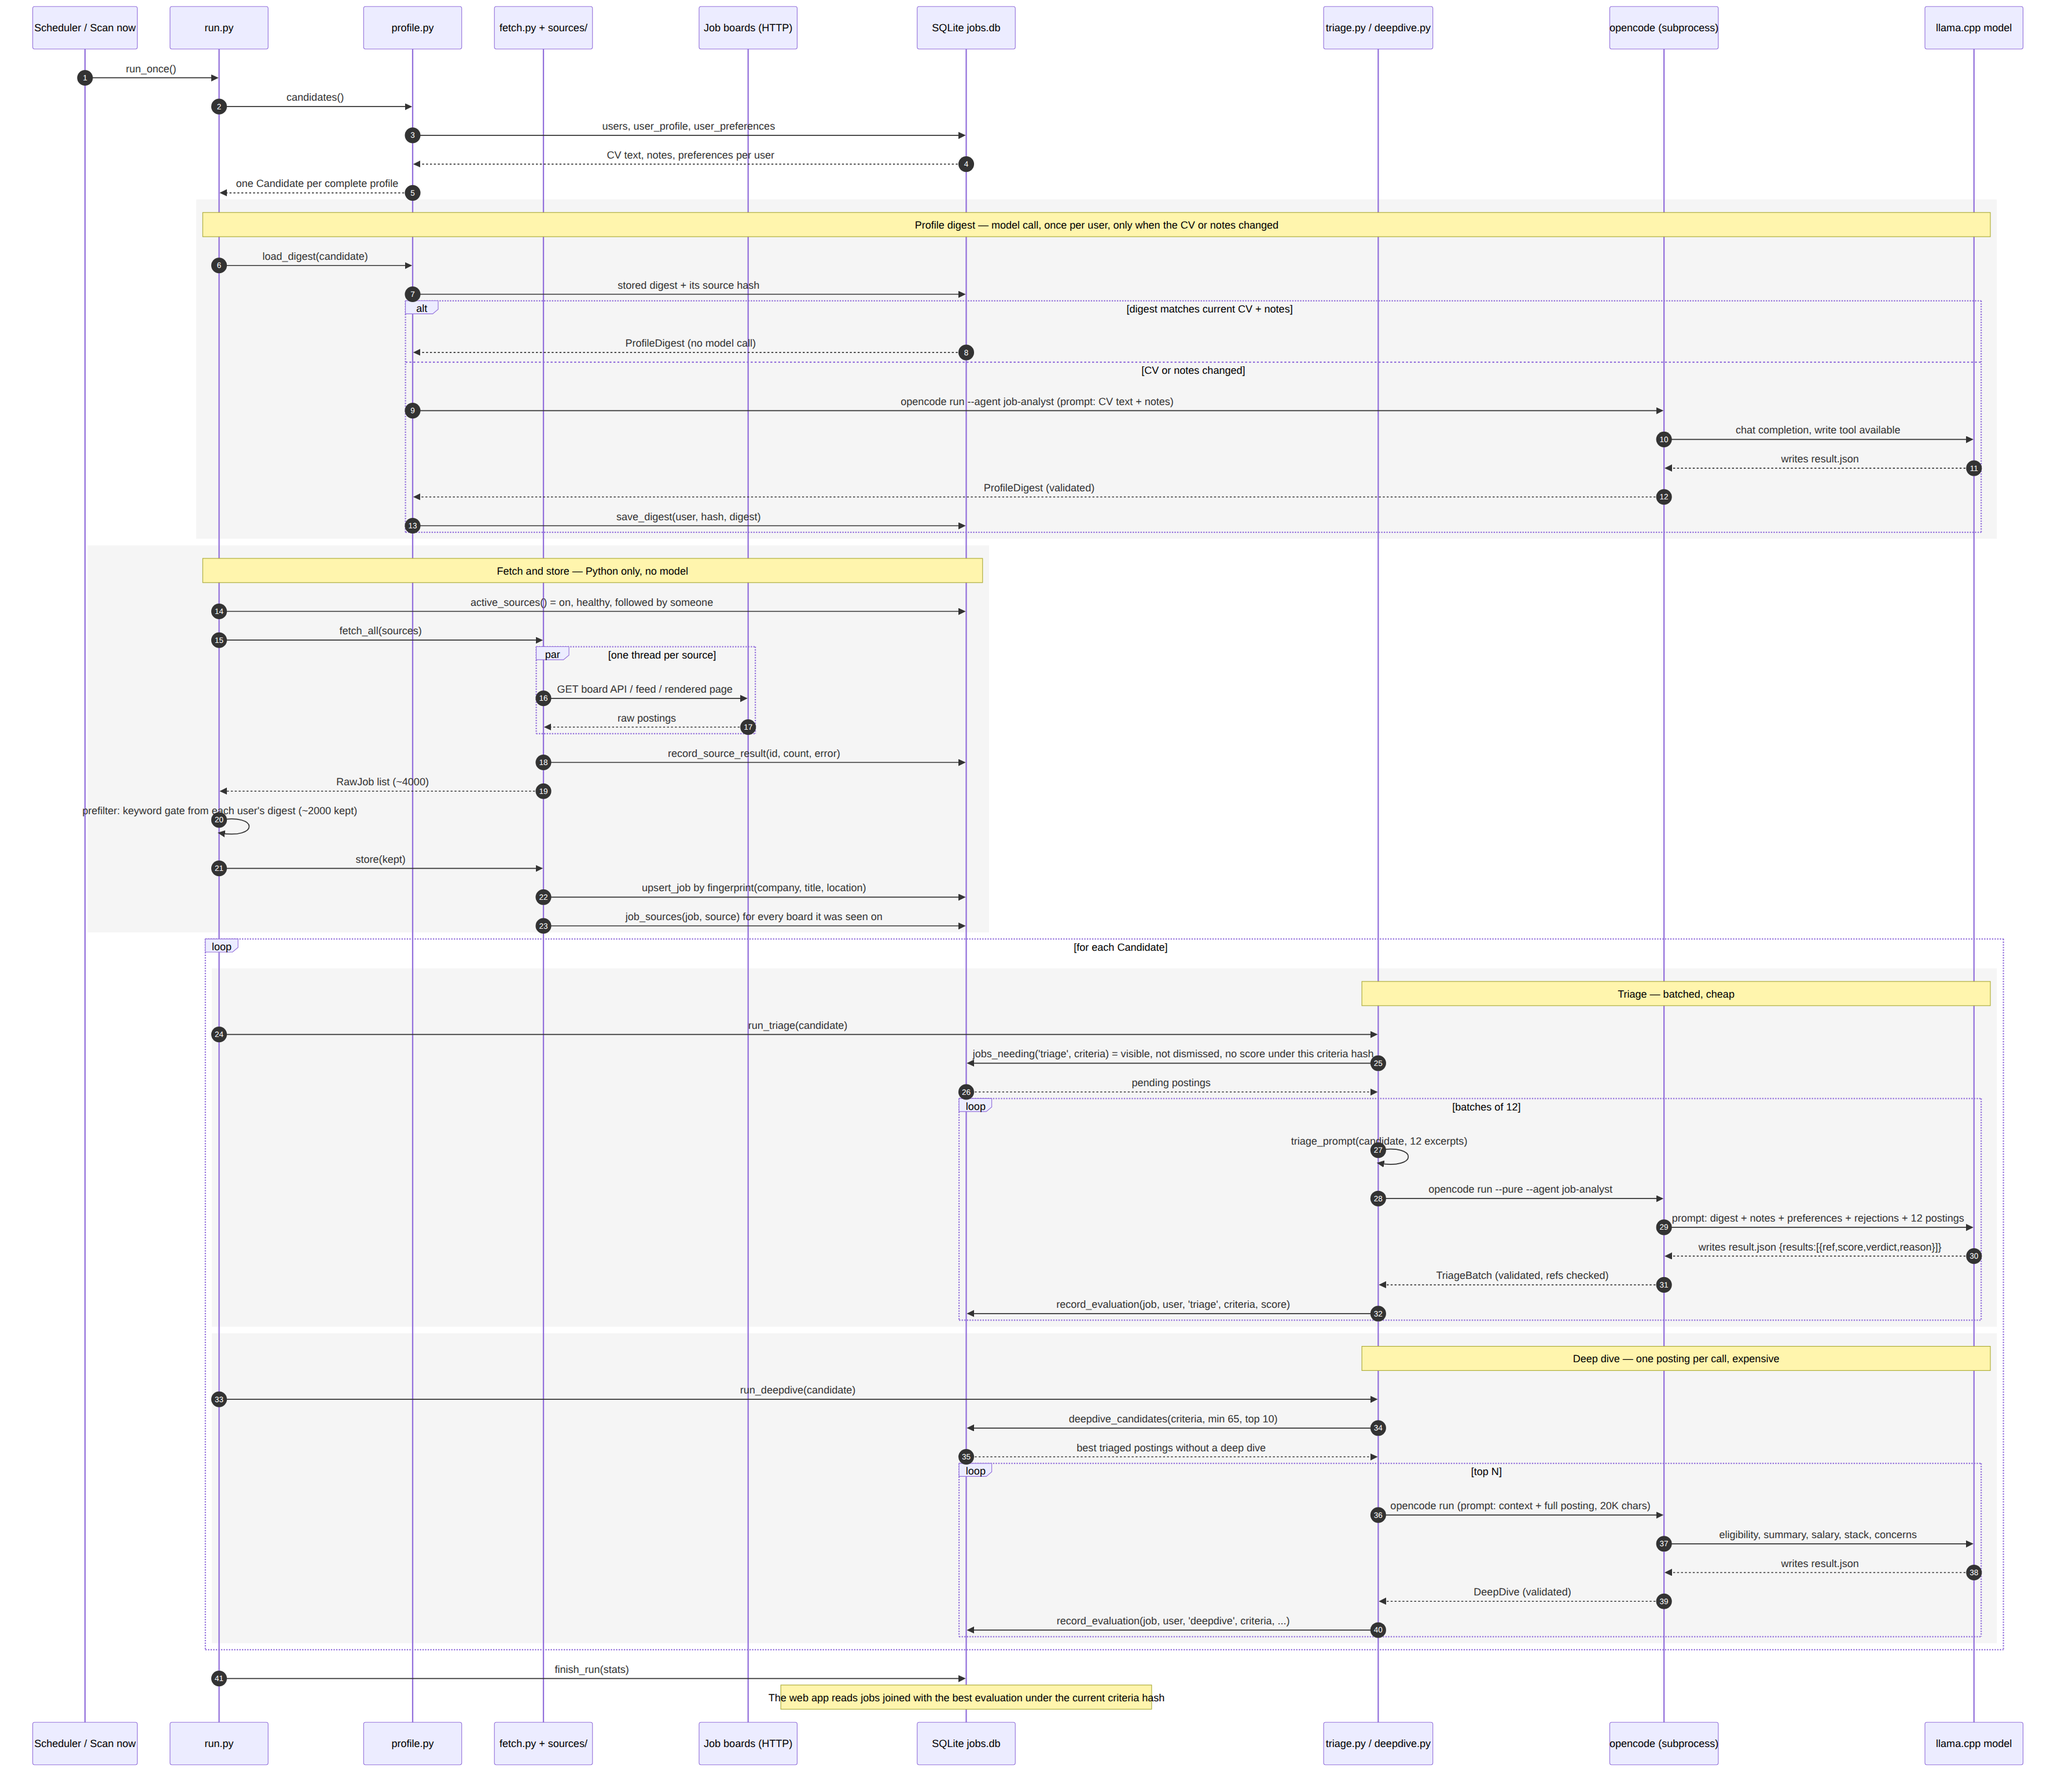
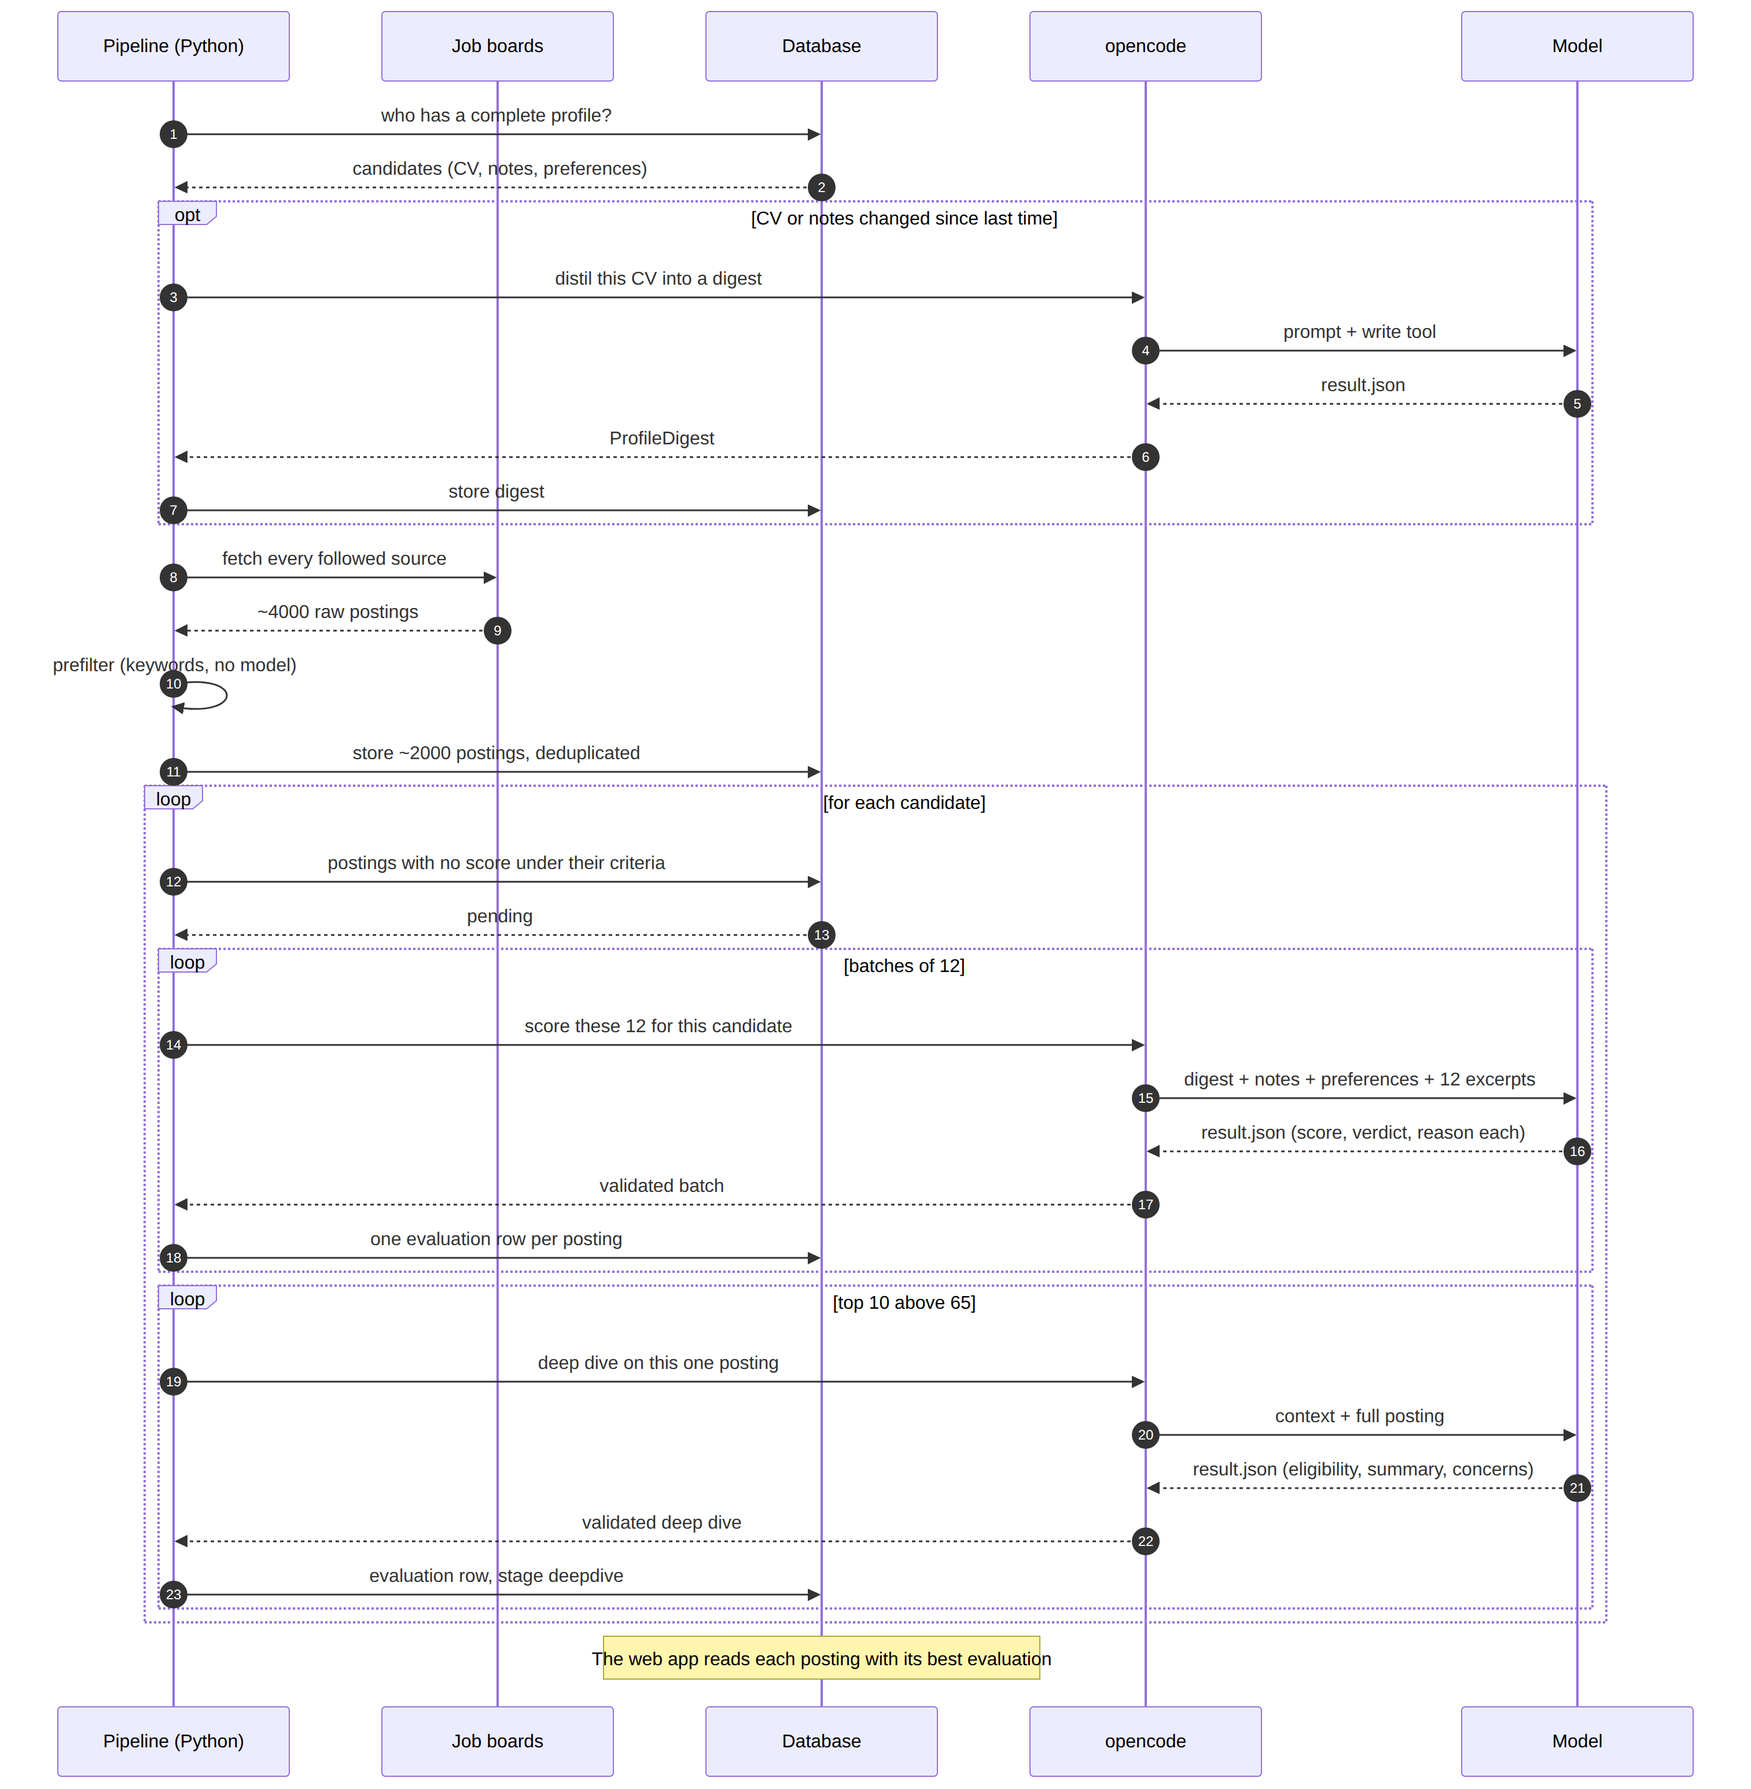
doc: simpler sequence diagram — five lanes, larger type
Claude-Session: https://claude.ai/code/session_01GTFjXdMfJbZwk8GXXdwWCK

diff --git a/doc/retrieve_and_score.md b/doc/retrieve_and_score.md
@@ -19,86 +19,48 @@ The database is the only state. A posting, a user's decisions on it and every sc
 ```mermaid
 sequenceDiagram
     autonumber
-    participant S as Scheduler / Scan now
-    participant R as run.py
-    participant P as profile.py
-    participant F as fetch.py + sources/
-    participant B as Job boards (HTTP)
-    participant D as SQLite jobs.db
-    participant T as triage.py / deepdive.py
-    participant O as opencode (subprocess)
-    participant M as llama.cpp model
+    participant P as Pipeline (Python)
+    participant B as Job boards
+    participant D as Database
+    participant O as opencode
+    participant M as Model
 
-    S->>R: run_once()
-    R->>P: candidates()
-    P->>D: users, user_profile, user_preferences
-    D-->>P: CV text, notes, preferences per user
-    P-->>R: one Candidate per complete profile
+    P->>D: who has a complete profile?
+    D-->>P: candidates (CV, notes, preferences)
 
-    rect rgb(245,245,245)
-    note over R,M: Profile digest — model call, once per user, only when the CV or notes changed
-    R->>P: load_digest(candidate)
-    P->>D: stored digest + its source hash
-    alt digest matches current CV + notes
-        D-->>P: ProfileDigest (no model call)
-    else CV or notes changed
-        P->>O: opencode run --agent job-analyst (prompt: CV text + notes)
-        O->>M: chat completion, write tool available
-        M-->>O: writes result.json
-        O-->>P: ProfileDigest (validated)
-        P->>D: save_digest(user, hash, digest)
-    end
+    opt CV or notes changed since last time
+        P->>O: distil this CV into a digest
+        O->>M: prompt + write tool
+        M-->>O: result.json
+        O-->>P: ProfileDigest
+        P->>D: store digest
     end
 
-    rect rgb(245,245,245)
-    note over R,D: Fetch and store — Python only, no model
-    R->>D: active_sources() = on, healthy, followed by someone
-    R->>F: fetch_all(sources)
-    par one thread per source
-        F->>B: GET board API / feed / rendered page
-        B-->>F: raw postings
-    end
-    F->>D: record_source_result(id, count, error)
-    F-->>R: RawJob list (~4000)
-    R->>R: prefilter: keyword gate from each user's digest (~2000 kept)
-    R->>F: store(kept)
-    F->>D: upsert_job by fingerprint(company, title, location)
-    F->>D: job_sources(job, source) for every board it was seen on
-    end
+    P->>B: fetch every followed source
+    B-->>P: ~4000 raw postings
+    P->>P: prefilter (keywords, no model)
+    P->>D: store ~2000 postings, deduplicated
 
-    loop for each Candidate
-        rect rgb(245,245,245)
-        note over T,M: Triage — batched, cheap
-        R->>T: run_triage(candidate)
-        T->>D: jobs_needing('triage', criteria) = visible, not dismissed, no score under this criteria hash
-        D-->>T: pending postings
+    loop for each candidate
+        P->>D: postings with no score under their criteria
+        D-->>P: pending
         loop batches of 12
-            T->>T: triage_prompt(candidate, 12 excerpts)
-            T->>O: opencode run --pure --agent job-analyst
-            O->>M: prompt: digest + notes + preferences + rejections + 12 postings
-            M-->>O: writes result.json {results:[{ref,score,verdict,reason}]}
-            O-->>T: TriageBatch (validated, refs checked)
-            T->>D: record_evaluation(job, user, 'triage', criteria, score)
+            P->>O: score these 12 for this candidate
+            O->>M: digest + notes + preferences + 12 excerpts
+            M-->>O: result.json (score, verdict, reason each)
+            O-->>P: validated batch
+            P->>D: one evaluation row per posting
         end
-        end
-
-        rect rgb(245,245,245)
-        note over T,M: Deep dive — one posting per call, expensive
-        R->>T: run_deepdive(candidate)
-        T->>D: deepdive_candidates(criteria, min 65, top 10)
-        D-->>T: best triaged postings without a deep dive
-        loop top N
-            T->>O: opencode run (prompt: context + full posting, 20K chars)
-            O->>M: eligibility, summary, salary, stack, concerns
-            M-->>O: writes result.json
-            O-->>T: DeepDive (validated)
-            T->>D: record_evaluation(job, user, 'deepdive', criteria, ...)
-        end
+        loop top 10 above 65
+            P->>O: deep dive on this one posting
+            O->>M: context + full posting
+            M-->>O: result.json (eligibility, summary, concerns)
+            O-->>P: validated deep dive
+            P->>D: evaluation row, stage deepdive
         end
     end
 
-    R->>D: finish_run(stats)
-    note over D: The web app reads jobs joined with the best evaluation under the current criteria hash
+    note over D: The web app reads each posting with its best evaluation
 ```
 
 </details>
